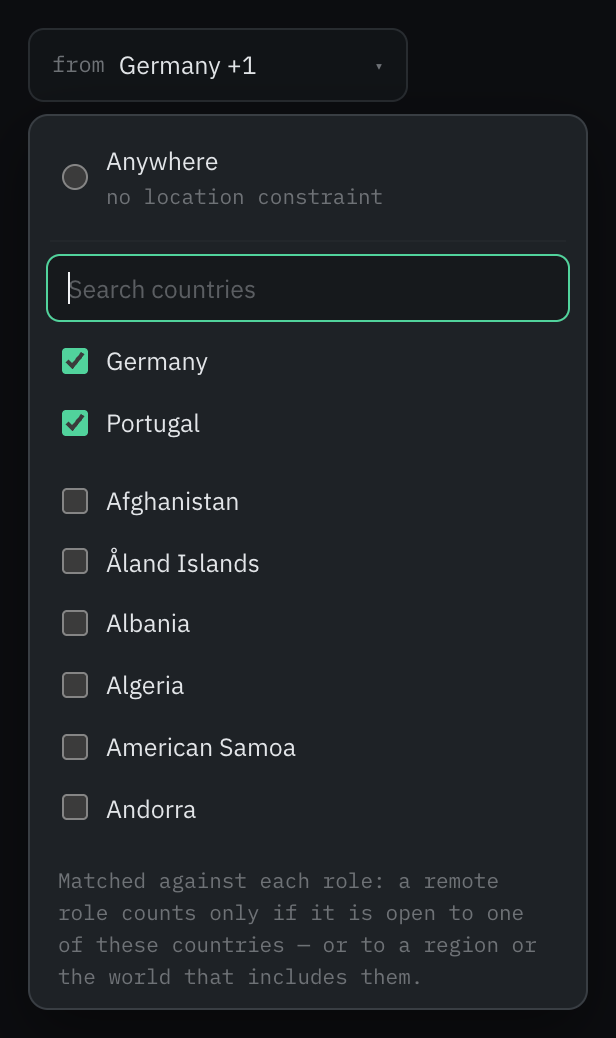
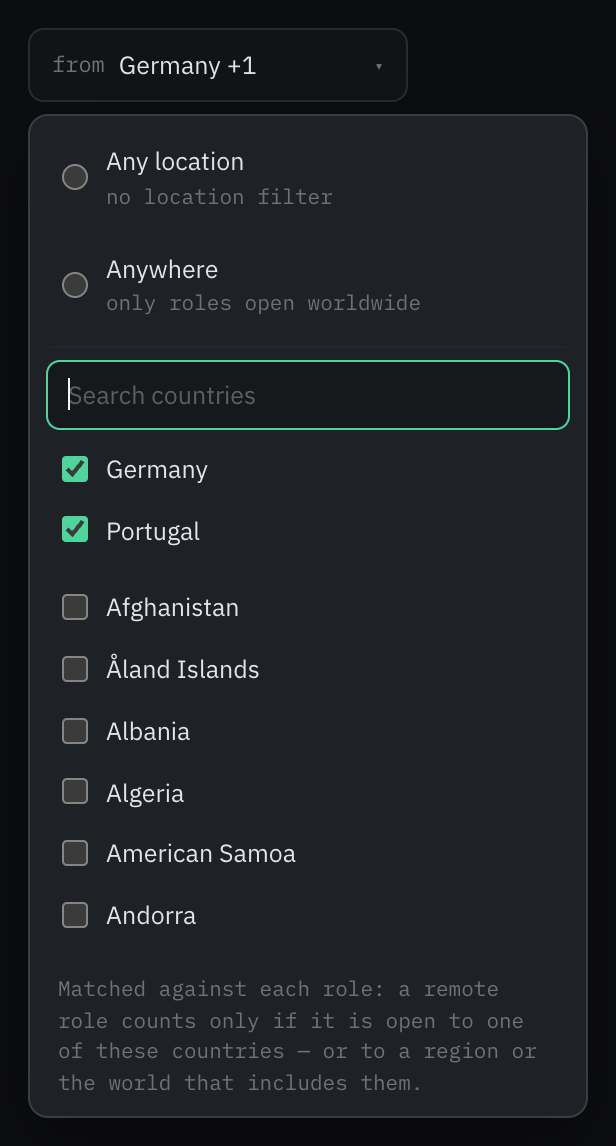
feat: refine location filtering and descriptions for job roles

diff --git a/src/components/LocationPicker.tsx b/src/components/LocationPicker.tsx
@@ -1,5 +1,7 @@
 import { useEffect, useId, useMemo, useRef, useState } from 'react';
 import { COUNTRIES } from '@/lib/regions';
+import { locationLabel } from '@/lib/format';
+import { ANYWHERE } from '@/types/filters';
 
 /**
  * Where you can work from.
@@ -10,8 +12,22 @@ import { COUNTRIES } from '@/lib/regions';
  * office" but "which of its roles could I actually do from here" — a remote
  * role open only to US residents is no use to someone in Tallinn, however
  * remote it is. So the choice is plural (people can often work from more than
- * one country) and it is matched against each role's own stated availability,
- * with "Anywhere" meaning no constraint at all.
+ * one country) and it is matched against each role's own stated availability.
+ *
+ * Two different answers were once both called "Anywhere":
+ *
+ *   - *Any location* — I have not said where I am. No location filter runs, and
+ *     a role open only to Berlin is still listed.
+ *   - *Anywhere* — I am not tied to a country. Only roles the employer opened
+ *     to the whole world qualify, which is a **narrowing**: today 89 of the
+ *     1,847 roles that say remote, and none of the ones scoped to a country or
+ *     a region, however permissive that region is.
+ *
+ * Sharing one label made the second unreachable and the first a lie, since
+ * "Anywhere" listed roles you could take from exactly one country. They are now
+ * two choices, exclusive with each other and with the country list — picking a
+ * country is itself a statement that you are tied to somewhere, and it already
+ * admits worldwide roles, since those are open to that country too.
  *
  * Every country is offered, not only the ones companies here are based in: a
  * reader in Portugal can take a role open to "Europe" from a company in
@@ -65,15 +81,38 @@ export function LocationPicker({
     return { chosen, rest };
   }, [query, selected]);
 
+  const [first] = value;
   const summary =
-    value.length === 0
-      ? 'Anywhere'
+    first === undefined
+      ? 'Any location'
       : value.length === 1
-        ? value[0]
-        : `${value[0]} +${value.length - 1}`;
+        ? locationLabel(first)
+        : `${locationLabel(first)} +${value.length - 1}`;
 
+  // Choosing a country drops "Anywhere": you cannot both be tied to somewhere
+  // and not be, and leaving it in would widen the search back out silently.
   const toggle = (country: string) =>
-    onChange(selected.has(country) ? value.filter((c) => c !== country) : [...value, country]);
+    onChange(
+      selected.has(country)
+        ? value.filter((c) => c !== country)
+        : [...value.filter((c) => c !== ANYWHERE), country],
+    );
+
+  const scope = (label: string, hint: string, checked: boolean, next: string[]) => (
+    <label className="flex items-center gap-[9px] px-[10px] py-[7px] rounded-[6px] cursor-pointer text-[12.5px] text-ink-soft hover:bg-control">
+      <input
+        type="radio"
+        name={`${panelId}-scope`}
+        checked={checked}
+        onChange={() => onChange(next)}
+        className="accent-[var(--color-accent)] w-[13px] h-[13px] cursor-pointer"
+      />
+      <span>
+        {label}
+        <span className="block font-mono text-[10.5px] text-ink-faint mt-px">{hint}</span>
+      </span>
+    </label>
+  );
 
   const option = (country: string) => (
     <label
@@ -119,20 +158,8 @@ export function LocationPicker({
             align === 'end' ? 'right-0' : 'left-0'
           }`}
         >
-          <label className="flex items-center gap-[9px] px-[10px] py-[7px] rounded-[6px] cursor-pointer text-[12.5px] text-ink-soft hover:bg-control">
-            <input
-              type="radio"
-              checked={value.length === 0}
-              onChange={() => onChange([])}
-              className="accent-[var(--color-accent)] w-[13px] h-[13px] cursor-pointer"
-            />
-            <span>
-              Anywhere
-              <span className="block font-mono text-[10.5px] text-ink-faint mt-px">
-                no location constraint
-              </span>
-            </span>
-          </label>
+          {scope('Any location', 'no location filter', value.length === 0, [])}
+          {scope('Anywhere', 'only roles open worldwide', selected.has(ANYWHERE), [ANYWHERE])}
 
           <div className="h-px bg-line mx-[4px] my-[2px]" aria-hidden="true" />
 
@@ -159,8 +186,9 @@ export function LocationPicker({
           </div>
 
           <p className="font-mono text-[10.5px] text-ink-faint leading-[1.5] m-0 px-[8px] pt-[4px] pb-[2px] text-pretty">
-            Matched against each role: a remote role counts only if it is open to one of these
-            countries — or to a region or the world that includes them.
+            {selected.has(ANYWHERE)
+              ? 'Matched against each role: only postings open to the whole world. A role open to a region — even one as wide as EMEA — is tied to somewhere, so it is not one of them.'
+              : 'Matched against each role: a remote role counts only if it is open to one of these countries — or to a region or the world that includes them.'}
           </p>
         </div>
       )}

diff --git a/src/pages/MethodologyPage.tsx b/src/pages/MethodologyPage.tsx
@@ -2,6 +2,7 @@ import { Link } from 'react-router-dom';
 import { companies, generatedAt, totalOpenings, verifiedCount } from '@/lib/dataset';
 import { directoryHref } from '@/lib/return-to';
 import { POSITION_CAP } from '@/lib/format';
+import { ANYWHERE } from '@/types/filters';
 
 /**
  * How the data is gathered, in the reader's own interest.
@@ -69,6 +70,10 @@ export function MethodologyPage() {
   const withLink = openings.filter((o) => o.url !== null).length;
   const withBoard = companies.filter((c) => c.currentOpenings.length > 0).length;
   const unknownCountry = companies.filter((c) => c.country === null).length;
+  const remoteRoles = openings.filter((o) => o.workplace.some((s) => s.mode === 'remote')).length;
+  const worldwideRoles = openings.filter((o) =>
+    o.workplace.some((s) => s.where.includes(ANYWHERE)),
+  ).length;
   const unknownRemote = companies.filter((c) => c.remotePolicy === null).length;
 
   const stats: { key: string; value: string }[] = [
@@ -169,6 +174,14 @@ export function MethodologyPage() {
           your country is not shown as one you can take. A work model is only recorded when the
           posting states it, and a plain &ldquo;Remote&rdquo; that never says who may apply is
           marked not confirmed rather than read as worldwide.
+        </p>
+        <p className="m-0">
+          <strong className="text-ink-soft">&ldquo;Anywhere&rdquo; narrows rather than widens.</strong>{' '}
+          Asking for it keeps only the roles a company opened to the whole world — {worldwideRoles}{' '}
+          of the {remoteRoles} that say remote. Every other remote role is tied to a country or a
+          region, however permissive that region is, so it is left out rather than passed off as one
+          you could take from anywhere. Naming the countries you can work from is the other
+          question, and it is the one most people mean.
         </p>
         <p className="m-0">
           A scan that fails changes nothing. An unreachable careers page is indistinguishable from a

diff --git a/src/components/ProfileEditor.tsx b/src/components/ProfileEditor.tsx
@@ -1,5 +1,6 @@
 import { useState } from 'react';
 import { SIZE_BANDS, type SizeBandKey } from '@/types/filters';
+import { locationLabel } from '@/lib/format';
 import { MAX_TERMS, MAX_TERM_LENGTH, type Profile } from '@/types/profile';
 import type { RemotePolicy } from '@/types/company';
 import { splitTerms } from '@/lib/scoring';
@@ -225,11 +226,11 @@ export function ProfileEditor({
 
       <Field
         label="Where you can work from"
-        hint="Anywhere by default. Add every country you could work from. A remote role only counts when it is open to one of them — or to a region, or the world, that includes them."
+        hint="Unset by default, which filters nothing. Add every country you could work from and a remote role only counts when it is open to one of them — or to a region, or the world, that includes them. Choose Anywhere instead to keep only the roles open worldwide."
       >
         <div className="flex gap-[6px] flex-wrap mb-[10px]">
           {profile.countries.length === 0 && (
-            <span className="text-[12.5px] text-ink-fainter font-mono">anywhere</span>
+            <span className="text-[12.5px] text-ink-fainter font-mono">any location</span>
           )}
           {profile.countries.map((country) => (
             <button
@@ -243,7 +244,7 @@ export function ProfileEditor({
               }
               className="flex items-center gap-[6px] bg-accent-surface border border-accent-line text-accent-text rounded-[20px] px-[10px] py-[4px] text-[12px] cursor-pointer font-mono hover:bg-accent-surface-strong transition-colors"
             >
-              {country} <span className="opacity-60">✕</span>
+              {locationLabel(country)} <span className="opacity-60">✕</span>
             </button>
           ))}
         </div>

diff --git a/src/lib/filtering.ts b/src/lib/filtering.ts
@@ -1,6 +1,6 @@
 import type { Company, Opening, WorkplaceSlot } from '../types/company.js';
 import type { Filters, SizeRange, SortKey } from '../types/filters.js';
-import { sizeRangeOfBand } from '../types/filters.js';
+import { ANYWHERE, sizeRangeOfBand } from '../types/filters.js';
 import { searchCompanies, type ScoredCompany } from './scoring.js';
 import { disciplineOf, type Discipline } from './discipline.js';
 import { COUNTRIES, covers, regionFromLabel } from './regions.js';
@@ -137,7 +137,9 @@ function evaluateSlot(
   let placeUnknown = false;
   if (countries.length > 0) {
     // Empty `where` is "not stated", never "anywhere" — plain "Remote" says
-    // nothing about who may apply.
+    // nothing about who may apply. That matters most when the reader asked for
+    // ANYWHERE: that is a narrowing to roles their employer opened to the whole
+    // world, so a role that never said cannot be counted as one of them.
     if (slot.where.length === 0) placeUnknown = true;
     else if (!countries.some((country) => covers(slot.where, country))) return 'mismatch';
   }
@@ -178,9 +180,13 @@ export function evaluateOpening(
  * Filter countries arrive from URLs and agents in any case — `?country=estonia`.
  * `where` uses canonical names, so the wanted list is matched case-insensitively
  * against them rather than compared raw.
+ *
+ * `anywhere` and `global` are accepted as spellings of ANYWHERE, since a caller
+ * writing the filter by hand has no reason to know which word the parser chose.
  */
 function canonicalCountry(value: string): string {
   const wanted = value.trim().toLowerCase();
+  if (wanted === ANYWHERE || wanted === 'anywhere' || wanted === 'global') return ANYWHERE;
   return COUNTRY_BY_LOWER.get(wanted) ?? value.trim();
 }
 

diff --git a/src/types/filters.ts b/src/types/filters.ts
@@ -28,6 +28,23 @@ export const SORT_OPTIONS = {
 export type SortKey = keyof typeof SORT_OPTIONS;
 
 /**
+ * The one location choice that is not a place.
+ *
+ * `countries` answers "where can you work from", and every other entry in it is
+ * somewhere you could live. This entry is the reader saying they are not tied
+ * to anywhere — so it keeps only the roles the employer opened to the whole
+ * world, and drops the ones open to a country or a region.
+ *
+ * It is deliberately the same token postings are parsed into (`workplace.where`
+ * holds `'worldwide'` for "Anywhere in the world"), which is what lets the
+ * ordinary country match answer it with no special case: `covers` already
+ * treats `worldwide` as covering everyone, and no country or region covers
+ * `worldwide` in return. An empty `countries` list remains "no location
+ * filter", which is the opposite of this and used to share its name.
+ */
+export const ANYWHERE = 'worldwide';
+
+/**
  * One search. Plural on every dimension because a reader's real preference
  * usually is — remote or hybrid, 11–50 or 51–200 — and because a saved profile
  * (types/profile.ts) feeds straight into this shape.
@@ -35,6 +52,8 @@ export type SortKey = keyof typeof SORT_OPTIONS;
 export interface Filters {
   readonly query: string;
   readonly remote: readonly RemotePolicy[];
+  /** Places the reader could work from. Empty means no location filter; the
+   *  single entry `ANYWHERE` means only roles open with no country restriction. */
   readonly countries: readonly string[];
   readonly sizes: readonly SizeBandKey[];
   /** Role disciplines to keep. Empty means every kind of role. Only bites in

diff --git a/src/lib/format.ts b/src/lib/format.ts
@@ -1,4 +1,5 @@
 import type { Company, RemotePolicy, VerificationState } from '@/types/company';
+import { ANYWHERE } from '@/types/filters';
 
 /** Days past `lastVerified` after which data is shown as stale. */
 export const STALE_AFTER_DAYS = 14;
@@ -68,6 +69,18 @@ export function remotePolicyLabel(policy: RemotePolicy | null): string {
 
 export function remoteLabel(company: Company): string {
   return remotePolicyLabel(company.remotePolicy);
+}
+
+/**
+ * How a chosen location reads on a chip or a button.
+ *
+ * Every entry but one is a country and reads as itself. ANYWHERE is stored as
+ * the same token postings are parsed into, `worldwide`, which is the right word
+ * for what the *employer* said and the wrong one for what the *reader* asked:
+ * they said they can work from anywhere.
+ */
+export function locationLabel(value: string): string {
+  return value === ANYWHERE ? 'Anywhere' : value;
 }
 
 /**

diff --git a/api/index.ts b/api/index.ts
@@ -39,7 +39,7 @@ const FILTER_PARAMS: readonly Param[] = [
     name: 'country',
     type: 'string, ≤80 chars',
     detail:
-      'Exact country match, case-insensitive. <code>location</code> is accepted as an alias. Companies with no recorded country are excluded and counted under <code>excluded.unknownCountry</code>.',
+      'Exact country match, case-insensitive. <code>location</code> is accepted as an alias. It asks where <em>you</em> can work from, so a company matches when one of its roles is open to that country — directly, through a region containing it, or worldwide. <code>worldwide</code> is accepted in place of a country and means the opposite of leaving this out: only roles open with no country restriction. Companies whose roles do not say who may apply are excluded and counted under <code>excluded.unknownCountry</code>.',
   },
   {
     name: 'remote',

diff --git a/src/pages/DirectoryPage.tsx b/src/pages/DirectoryPage.tsx
@@ -12,7 +12,7 @@ import { RoleResults } from '@/components/RoleResults';
 import { SIZE_BANDS, sizeRangeOfBand } from '@/types/filters';
 import { isProfileEmpty } from '@/types/profile';
 import { DISCIPLINE_LABELS } from '@/lib/discipline';
-import { remotePolicyLabel } from '@/lib/format';
+import { locationLabel, remotePolicyLabel } from '@/lib/format';
 import { rememberDirectorySearch } from '@/lib/return-to';
 
 // The highest-yield keywords actually present in the dataset, so a suggestion
@@ -125,7 +125,7 @@ export function DirectoryPage() {
   for (const country of filters.countries) {
     chips.push({
       key: `country-${country}`,
-      label: country,
+      label: locationLabel(country),
       clear: () => update({ countries: filters.countries.filter((c) => c !== country) }),
     });
   }

diff --git a/mcp/src/index.ts b/mcp/src/index.ts
@@ -41,7 +41,7 @@ const filtersSchema = z
       .max(MAX_COUNTRY_LENGTH)
       .optional()
       .describe(
-        'Exact country name, case-insensitive (e.g. "Estonia", "United States"). Companies with no recorded country are excluded, not assumed to match.',
+        'Where the candidate can work from, as an exact country name, case-insensitive (e.g. "Estonia", "United States"). A company matches when one of its roles is open to that country — directly, through a region containing it, or worldwide. Pass "worldwide" instead of a country to keep only roles open with no country restriction; that is a narrowing, not the same as omitting this. Companies whose roles do not say who may apply are excluded, not assumed to match.',
       ),
     remote: z
       .enum(['remote', 'hybrid', 'onsite'])

diff --git a/src/types/profile.ts b/src/types/profile.ts
@@ -26,7 +26,8 @@ export interface Profile {
   readonly terms: readonly string[];
   /** Acceptable work models. Empty means no preference. */
   readonly remote: readonly RemotePolicy[];
-  /** Acceptable countries. Empty means anywhere. */
+  /** Places you could work from. Empty means no location filter; the single
+   *  entry `ANYWHERE` means only roles open worldwide. */
   readonly countries: readonly string[];
   /** Acceptable headcount bands. Empty means any size. */
   readonly sizes: readonly SizeBandKey[];

diff --git a/README.md b/README.md
@@ -90,7 +90,7 @@ company's page. Switch between them at any time; the search stays exactly as it 
 | --- | --- |
 | **Work model** | Remote · Hybrid · On-site — pick any combination |
 | **Role type** | Engineering · Data & ML · Design · Product |
-| **Location** | Anywhere, or any set of countries you can work from |
+| **Location** | Any set of countries you can work from — or *Anywhere*, meaning only roles open worldwide |
 | **Company size** | 1–10 · 11–50 · 51–200 · 200+ people |
 | **Sort** | Best match · Most open roles · Recently verified · Company name |
 
@@ -99,15 +99,20 @@ company page lands you exactly where you left off.
 
 ### Location means *where you can work from*
 
-<img src=".github/assets/location-picker.png" align="right" width="250" alt="The location picker: Anywhere, or a searchable checklist of countries.">
+<img src=".github/assets/location-picker.png" align="right" width="250" alt="The location picker: Any location, Anywhere, and a searchable checklist of countries.">
 
 A remote role open only to US residents is no use to someone in Lisbon, however remote it is.
 So location isn't matched against a company's head office — it's matched against **each role's
-own stated availability**. Pick *Anywhere*, or every country you could work from.
+own stated availability**. Name every country you could work from, and a role counts when it is
+open to one of them, directly or through a region that contains it.
+
+*Anywhere* is the other question, and it **narrows**: it keeps only the roles a company opened
+to the whole world — 89 of the 1,847 that say remote. The rest are tied to a country or a
+region, however permissive that region is, so a search for "anywhere" no longer returns roles
+you could take from exactly one place.
 
 Work model and location are then evaluated **together, per role**: a company matches only when
-one of its roles satisfies both. That matters — of 1,847 roles that say remote, only 89 are
-open worldwide; the rest are tied to a country or a region, and the filter knows which.
+one of its roles satisfies both.
 
 A plain "Remote" that never says who may apply is shown as *not confirmed* rather than read as
 "anywhere", and an office city on its own is never taken as evidence that a role is remote.
